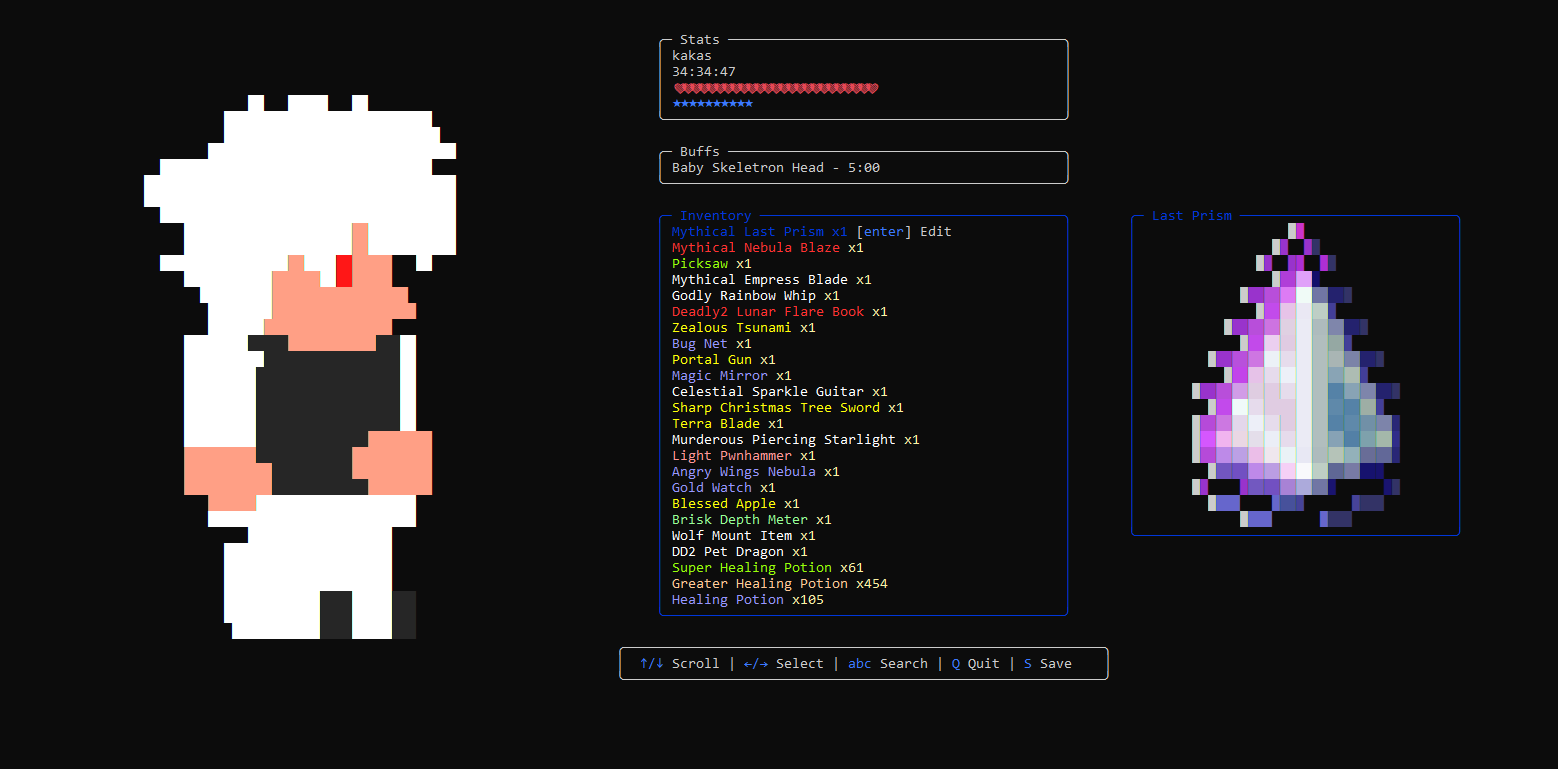
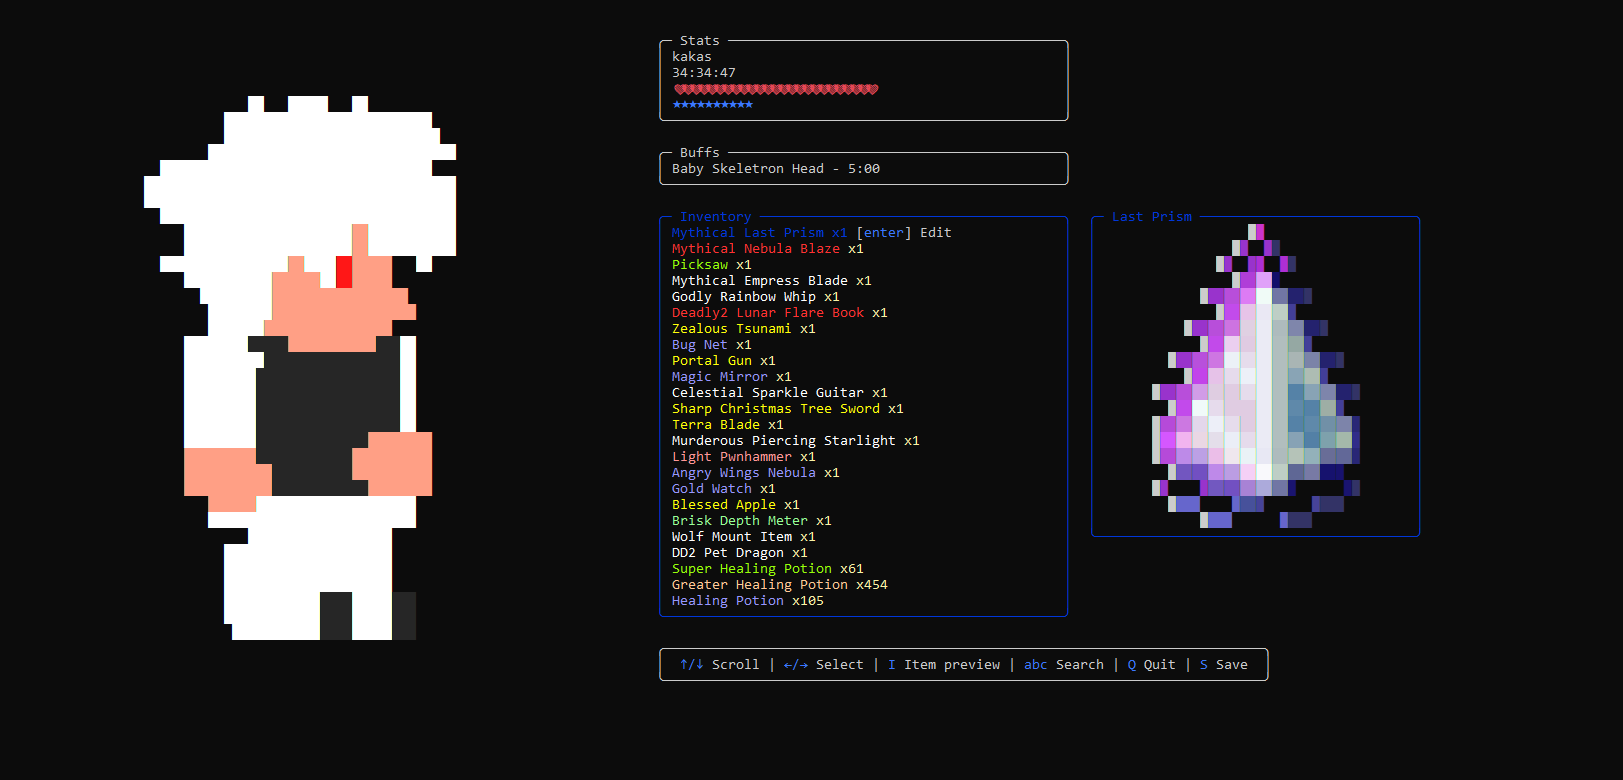
Fixed some bugs, added Image toggle

diff --git a/display.py b/display.py
@@ -58,6 +58,7 @@ class Display:
         self.color_map = color_map.splitlines()
         self.term = Terminal()
         self.sprite_atlas = Image.open("./images/items.png")
+        self.render_image = True
 
     def visible_length(self,s):
         ansi_escape = re.compile(r'\033\[[0-9;]*m')
@@ -108,7 +109,7 @@ class Display:
                     return player_files[index]
 
     def print_instructions(self, content, x, y):
-        box_width = 62
+        box_width = self.visible_length(content)+6
         padding = 2
         content_width = box_width - 2 * padding - 2
         
@@ -174,8 +175,8 @@ class Display:
 
             print(self.term.move(current_y, info_box_x) + f"╰{'─' * (buffs_box_width)}╯")
 
-            instructions = f"{CBLUE2}↑/↓{CEND} Scroll | {CBLUE2}←/→{CEND} Select | {CBLUE2}abc{CEND} Search | {CBLUE2}Q{CEND} Quit | {CBLUE2}S{CEND} Save"
-            self.print_instructions(instructions, info_box_x, current_y + 2+items_per_page+6)
+            instructions = f"{CBLUE2}↑/↓{CEND} Scroll | {CBLUE2}←/→{CEND} Select | {CBLUE2}I{CEND} Item preview | {CBLUE2}abc{CEND} Search | {CBLUE2}Q{CEND} Quit | {CBLUE2}S{CEND} Save"
+            self.print_instructions(instructions, info_box_x+5, current_y + 2+items_per_page+6)
             while True:
                 selected_items = items[selected_item]
                 color = item_colors[selected_item]
@@ -184,7 +185,7 @@ class Display:
                 items_box_y = current_y+2
 
                 for i in range(items_per_page + 2):
-                    print(self.term.move(items_box_y + i, items_box_x) + " " * 52)
+                    print(self.term.move(items_box_y + i, items_box_x) + " " * 102)
 
                 print(self.term.move(items_box_y, items_box_x) + f"{color}╭─ {selected_items.capitalize()} {'─' * (50-len(selected_items)-3)}╮{color}")
                 for i in range(items_per_page):
@@ -207,14 +208,15 @@ class Display:
 
                 curent_item = parsed_data[selected_items][current_item_index]
 
-                print(self.term.move(items_box_y, items_box_x+59) + f"{color}╭─ {self.display_name(curent_item.name)} {'─' * (40-len(self.display_name(curent_item.name))-3)}╮{color}")
-                self.display_sprite(curent_item.netID,items_box_x+60,items_box_y+1,color)
-                print(self.term.move(items_box_y+20, items_box_x+59) + f"{color}╰{'─' * 40}╯{CEND}")
+                if self.render_image:
+                    print(self.term.move(items_box_y, items_box_x+59-5) + f"{color}╭─ {self.display_name(curent_item.name)} {'─' * (40-len(self.display_name(curent_item.name))-3)}╮{color}")
+                    self.display_sprite(curent_item.netID,items_box_x+60-5,items_box_y+1,color)
+                    print(self.term.move(items_box_y+20, items_box_x+59-5) + f"{color}╰{'─' * 40}╯{CEND}")
 
                 key = self.term.inkey(timeout=None)
                 if key.code == self.term.KEY_UP and current_item_index > 0:
                     current_item_index -= 1
-                elif key.code == self.term.KEY_DOWN and current_item_index + items_per_page < len(parsed_data[selected_items])-1:
+                elif key.code == self.term.KEY_DOWN and current_item_index < len(parsed_data[selected_items])-1:
                     current_item_index += 1
                 if key.code == self.term.KEY_LEFT and selected_item > 0:
                     current_item_index = 0
@@ -237,6 +239,8 @@ class Display:
                     stack_input = self.get_stack(items_box_y, items_box_x, parsed_data,selected_items,current_item_index,
                                                                    color)
                     item.stack = stack_input
+                elif key == 'i':
+                    self.render_image = not self.render_image
                 elif key == 's':
                     return True
                 elif key == 'q':
